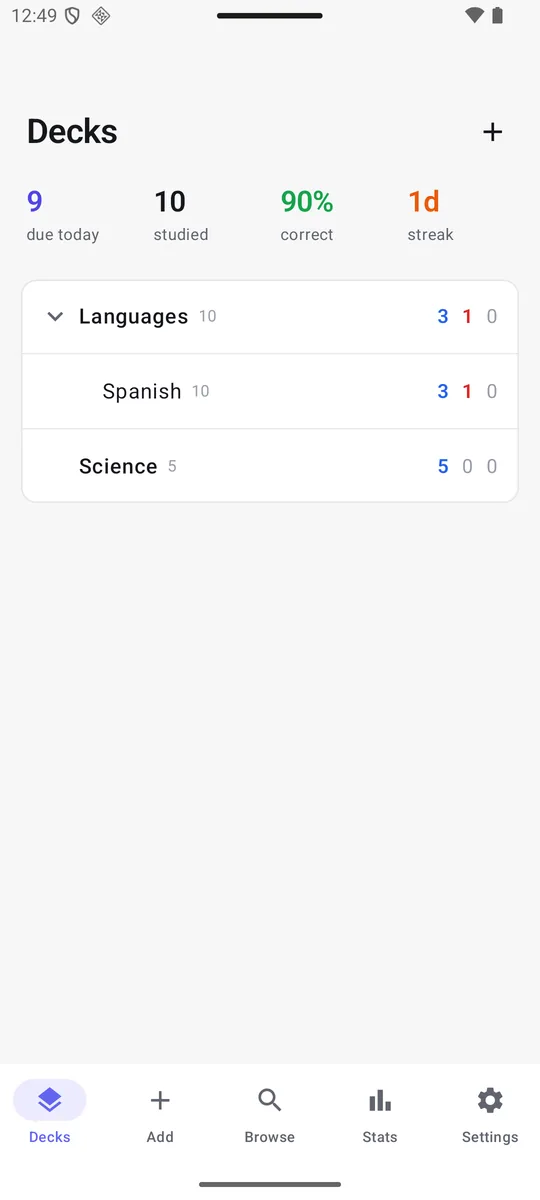
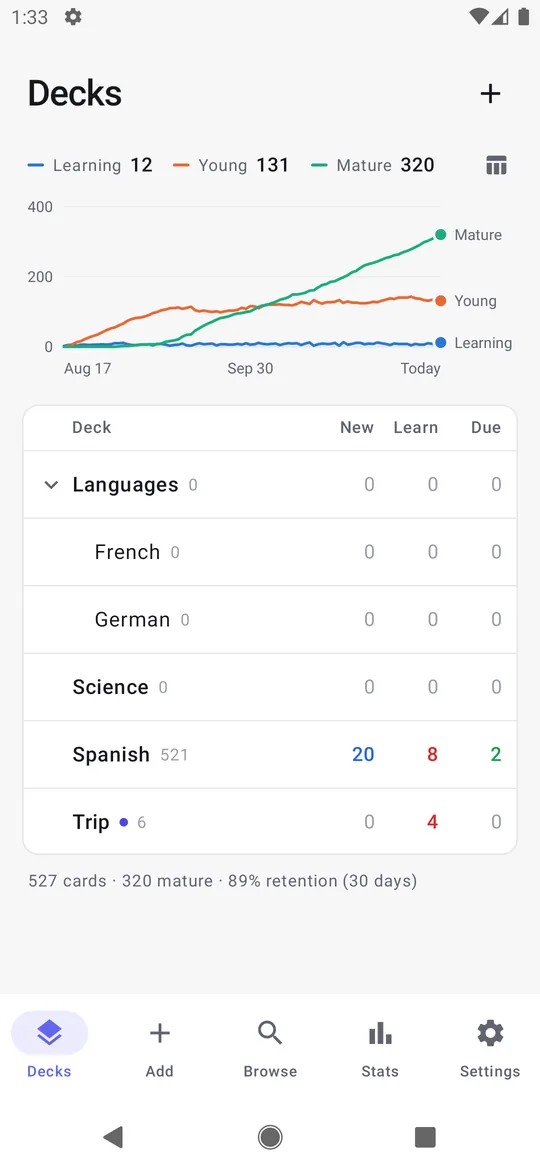
Android: current-deck dot and collection summary under the deck list; docs
- Deck list: a dot marks the current deck, and a line under the list gives the
  total and mature cards and 30-day retention, as in the web app.
- FEATURES.md: what the Android app now covers (deck management, deck page,
  Browse with Display order and selection actions, appearance).
- README screenshots of the Decks page (web and Android) show the new design.

Claude-Session: https://claude.ai/code/session_01Dg3ehHRU5KSNBugzewoAQT

diff --git a/android/app/src/main/java/com/betteranki/app/ui/HomeScreen.kt b/android/app/src/main/java/com/betteranki/app/ui/HomeScreen.kt
@@ -44,6 +44,10 @@ import androidx.compose.foundation.gestures.awaitEachGesture
 import androidx.compose.foundation.gestures.awaitFirstDown
 import androidx.compose.foundation.gestures.detectTapGestures
 import androidx.compose.ui.input.pointer.pointerInput
+import androidx.compose.foundation.background
+import androidx.compose.ui.semantics.contentDescription
+import androidx.compose.ui.semantics.semantics
+import kotlin.math.roundToInt
 import androidx.compose.material3.AlertDialog
 import androidx.compose.material3.Button
 import androidx.compose.material3.ButtonDefaults
@@ -193,7 +197,7 @@ fun DecksTab(app: AppState) {
                             rows.forEach { (node, depth) ->
                                 HorizontalDivider(color = MaterialTheme.colorScheme.outline)
                                 DeckRow(
-                                    node, depth, node.id in collapsed.value,
+                                    node, depth, node.id in collapsed.value, current = node.id == d.currentDeckId,
                                     onToggle = {
                                         val c = collapsed.value
                                         collapsed.value = if (node.id in c) c - node.id else c + node.id
@@ -204,6 +208,14 @@ fun DecksTab(app: AppState) {
                                 )
                             }
                         }
+                    }
+                }
+                home?.let { h ->
+                    if (d.tree.isNotEmpty()) item {
+                        Text(
+                            "${"%,d".format(h.cards.total)} cards · ${"%,d".format(h.cards.mature)} mature" + (h.retention30?.let { " · ${it.roundToInt()}% retention (30 days)" } ?: ""),
+                            fontSize = 12.sp, color = MaterialTheme.colorScheme.onSurfaceVariant, modifier = Modifier.padding(start = 20.dp, end = 20.dp, top = 10.dp),
+                        )
                     }
                 }
             }
@@ -309,7 +321,7 @@ fun DeckCountColumns(new: Int, learn: Int, review: Int) {
 
 @OptIn(androidx.compose.foundation.ExperimentalFoundationApi::class)
 @Composable
-private fun DeckRow(node: DeckNode, depth: Int, collapsed: Boolean, onToggle: () -> Unit, onClick: () -> Unit, menu: List<MenuItem?>) {
+private fun DeckRow(node: DeckNode, depth: Int, collapsed: Boolean, current: Boolean, onToggle: () -> Unit, onClick: () -> Unit, menu: List<MenuItem?>) {
     var open by remember { mutableStateOf(false) }
     val haptic = androidx.compose.ui.platform.LocalHapticFeedback.current
     Box {
@@ -324,6 +336,7 @@ private fun DeckRow(node: DeckNode, depth: Int, collapsed: Boolean, onToggle: ()
             }
             Row(Modifier.weight(1f), verticalAlignment = Alignment.CenterVertically) {
                 Text(node.shortName, Modifier.weight(1f, fill = false), fontWeight = if (depth == 0) FontWeight.Medium else FontWeight.Normal, fontSize = 15.sp, maxLines = 1, overflow = TextOverflow.Ellipsis, fontStyle = if (node.kind == 1) FontStyle.Italic else FontStyle.Normal)
+                if (current) Box(Modifier.padding(start = 6.dp).size(6.dp).background(appColors.brand, RoundedCornerShape(50)).semantics { contentDescription = "Current deck" })
                 Text(if (node.kind == 1) "filtered" else "${node.total}", Modifier.padding(start = 6.dp), fontSize = 12.sp, color = if (node.kind == 1) appColors.brand else appColors.faint, maxLines = 1)
             }
             DeckCountColumns(node.counts.new, node.counts.learn, node.counts.review)

diff --git a/docs/FEATURES.md b/docs/FEATURES.md
@@ -80,11 +80,14 @@ Check database, empty cards, check media (unused/missing), automatic encrypted b
 | Capability | Web | Android |
 |---|---|---|
 | Sign-in/setup, transport security indicator, device list & revoke | ✅ | ✅ |
-| Deck list (tree, counts), create | ✅ | ✅ |
-| Deck rename/delete/options/export, filtered decks, custom study | ✅ | ⛔ (use web) |
+| Deck list (tree, counts, card-state trend), create, rename, add subdeck, delete | ✅ | ✅ (long-press a deck) |
+| Deck page (counts, limits left today, trend, cards by maturity, description) | ✅ | ✅ |
+| Deck options, export, creating filtered decks, custom study | ✅ | ⛔ (use web); rebuild/empty filtered decks ✅ |
 | Study (all card types, audio, typed answers, flags, mark, bury, suspend, undo, edit) | ✅ | ✅ |
 | Add / edit notes | ✅ rich | ✅ plain text |
-| Browse | ✅ full | 🟡 search + edit |
+| Browse: search, sort, filters, state and deck-order columns, Display order, duplicate, flag, suspend, bury, mark, tags, change deck, reset, delete | ✅ table | ✅ list (long-press to select; "Show" picks row details) |
+| Browse: notes mode, find and replace, reposition, set due date, card info, export selected | ✅ | ⛔ (use web) |
+| Appearance: theme and font | ✅ | ✅ |
 | Stats | ✅ full | 🟡 summary, heatmap, forecast, retention |
 | Note types, deck options, import, maintenance | ✅ | ⛔ (use web) |
 | Offline study (download decks, study, sync with per-card conflict resolution) | ⛔ (planned) | ✅ ([OFFLINE.md](OFFLINE.md)) |
